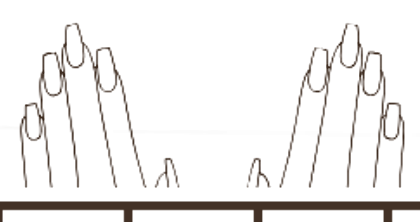
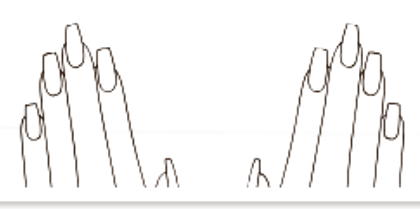
Ficha admin con el diseño del form de clienta (títulos dorados, checkboxes rosa/oro, tabla estilizada, manos) + manos sin borde de tabla

Changed region(s): [[0.0, 0.0857, 1.0, 1.0], [0.8048, 0.4857, 0.8667, 0.7143], [0.8048, 0.7429, 0.8357, 0.8]]

diff --git a/sistema/index.html b/sistema/index.html
@@ -637,6 +637,39 @@ footer span{color:var(--gold);}
 .pass-eye:hover{color:var(--gold);}
 .forgot-link{color:var(--gold);font-size:12px;text-align:right;cursor:pointer;background:none;border:none;padding:0;margin-top:-2px;opacity:.8;}
 .forgot-link:hover{opacity:1;text-decoration:underline;}
+/* ── Modal Ficha Técnica: look del formulario de clienta ── */
+#modal-ficha .modal{background:linear-gradient(180deg,#FDF8F2 0%,#FAF3E9 100%);border:1px solid var(--gold);}
+#modal-ficha .cfg-block-title{display:flex;align-items:center;gap:12px;text-align:center;justify-content:center;color:var(--gold-deep);letter-spacing:2.5px;font-size:12px;text-transform:uppercase;}
+#modal-ficha .cfg-block-title::before,#modal-ficha .cfg-block-title::after{content:'';flex:1;height:1px;background:linear-gradient(90deg,transparent,var(--gold));}
+#modal-ficha .cfg-block-title::after{background:linear-gradient(90deg,var(--gold),transparent);}
+#modal-ficha input[type=checkbox],#modal-ficha input[type=radio]{
+  appearance:none;-webkit-appearance:none;width:17px;height:17px;flex-shrink:0;
+  border:1.5px solid var(--gold);border-radius:5px;background:#fff;cursor:pointer;
+  position:relative;transition:all .2s;margin:0;
+}
+#modal-ficha input[type=radio]{border-radius:50%;}
+#modal-ficha input[type=checkbox]:hover,#modal-ficha input[type=radio]:hover{border-color:var(--pink);box-shadow:0 0 0 3px rgba(221,152,177,.15);}
+#modal-ficha input[type=checkbox]:checked,#modal-ficha input[type=radio]:checked{
+  background:linear-gradient(135deg,var(--pink),#CF8AA3)!important;border-color:var(--pink)!important;
+  box-shadow:0 2px 8px rgba(221,152,177,.4);
+}
+#modal-ficha input[type=checkbox]:checked::after{
+  content:'';position:absolute;left:5px;top:1.5px;width:4px;height:8px;
+  border:solid #fff;border-width:0 2px 2px 0;transform:rotate(45deg);
+}
+#modal-ficha input[type=radio]:checked::after{content:'';position:absolute;inset:4px;border-radius:50%;background:#fff;}
+#modal-ficha label{cursor:pointer;}
+#modal-ficha label:hover{color:var(--gold-deep);}
+#modal-ficha thead tr{background:#F6EEDF!important;}
+#modal-ficha th{color:var(--gold-deep)!important;text-transform:uppercase;font-size:10px!important;letter-spacing:1px;border-color:#E8DACE!important;}
+#modal-ficha td{border-color:#EDE2D2!important;}
+#modal-ficha tbody td:first-child{background:#FBF4EA;}
+#modal-ficha input[type=text],#modal-ficha input[type=email],#modal-ficha input[type=tel],#modal-ficha select,#modal-ficha textarea{border-radius:10px;}
+body.dark-mode #modal-ficha .modal{background:var(--card);}
+body.dark-mode #modal-ficha input[type=checkbox],body.dark-mode #modal-ficha input[type=radio]{background:#1c1c1c!important;}
+body.dark-mode #modal-ficha input[type=checkbox]:checked,body.dark-mode #modal-ficha input[type=radio]:checked{background:var(--pink)!important;}
+body.dark-mode #modal-ficha tbody td:first-child{background:#222;}
+
 #reset-box{display:none;margin-top:12px;}
 #reset-box.open{display:block;}.modal-overlay.open{display:flex!important;}
 
@@ -816,6 +849,7 @@ footer span{color:var(--gold);}
       </div>
     </div>
     <div class="cfg-block-title" style="margin-bottom:8px">MEDIDAS</div>
+    <div style="text-align:center;margin:4px 0 10px"><img src="../assets/manos.png" alt="" style="width:min(200px,55vw);height:auto"></div>
     <div style="overflow-x:auto;margin-bottom:16px">
       <table style="width:100%;border-collapse:collapse;font-size:12px">
         <thead><tr style="background:var(--card)">